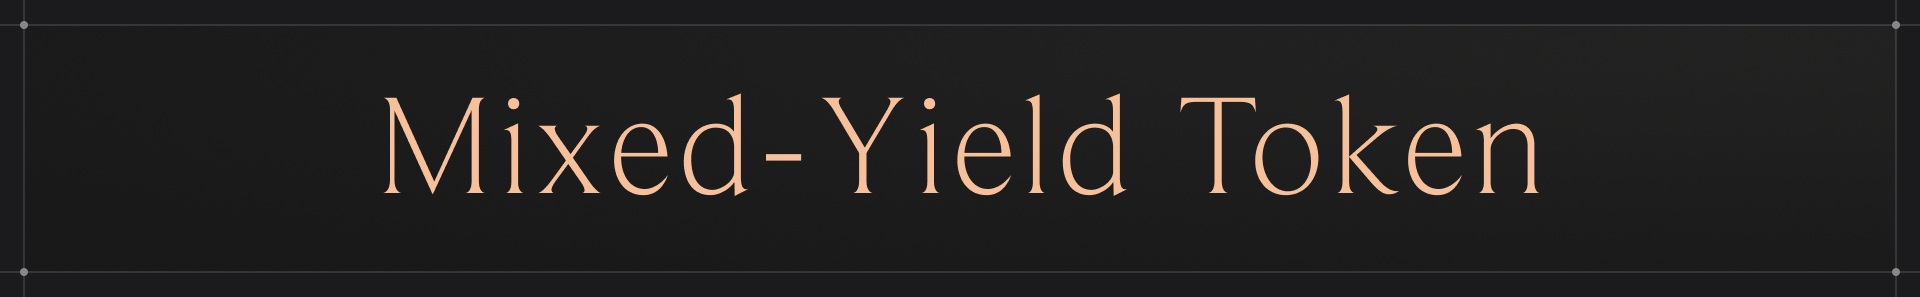
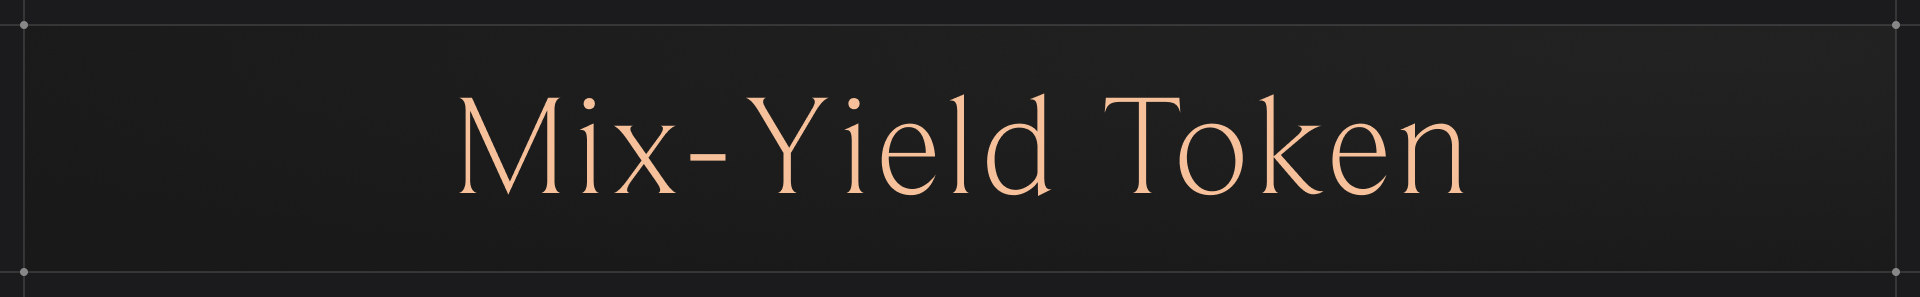
Changed incorrect instances of mixed to accuractly reflect MYT naming conventions

Changed region(s): [[0.1875, 0.303, 0.8125, 0.6667]]

diff --git a/docs/dev/myt/myt-contract.md b/docs/dev/myt/myt-contract.md
@@ -11,7 +11,7 @@ import mytstrategy from '@site/static/img/mytstrategy-01.png';
 The Alchemix V3 protocol introduces a modular system for yield generation centered around Morpho V2 Vaults. The core of this system
 is a set of strategies that function as adapters for the Morpho Vault, managing user-deposited assets such as WETH and USDC. These
 strategies are designed to allocate capital across a diverse range of third-party, yield-bearing DeFi protocols. Users deposit their assets
-into the Morpho Vault and receive Mixed-Yield Tokens (MYT), which represent a share of the vault’s underlying assets. The value of an MYT
+into the Morpho Vault and receive Mix-Yield Tokens (MYT), which represent a share of the vault’s underlying assets. The value of an MYT
 share is designed to increase over time as the strategies accrue yield. The allocation of capital is managed by an Alchemix admin or
 operator via the AlchemistAllocator contract to optimize returns and manage risk.
 
@@ -402,18 +402,18 @@ For more specific operations tailored to individual strategies, see the contract
 <details id="VaultActions_allocate">
   <summary>allocate(bytes memory data, uint256 assets, bytes4 selector, address sender)</summary>
 
-  - **Description** - Allocates `assets` from the vault into the underlying strategy, computes the delta between the new allocation and previous allocation, and reports the change.<br/><br/>
-  	Assets are allocated using an internal call to `_allocate()` which is overrideen and defined in derived strategy contract implementations. If `killSwitch` is enabled, the simply exits with a change of 0.
-    - `@param data` - a bytes-encoded representation of the old (current) allocation. Later decoded into an uint256.
-    - `@param assets` - the amount of tokens the vault is requesting to allocated to the strategy.
-    - `@param selector` - Unused, but in place to match the Morpho V2 spec. May be used in the future.
-    - `@param sender` - Unused, but in place to match the Morpho V2 spec. May be used in the future.
-  -	**Visibility Specifier** - external
-  -	**State Mutability Specifier** - nonpayable
-  -	**Returns** - (bytes32[] memory strategyIds, int256 change) - A tuple where the first value is an array of size 1 containing the [`adapterId`](/dev/myt/myt-contract#Variables_adapterId), and the second value is a signed 256 bit integer containing the difference between the new allocation and the old allocation
-  -	**Emits**
-    - [`Allocate(uint256 amountAllocated, address this)`](/dev/myt/myt-contract#Events_Allocate)
-  - **Reverts** - none
+- **Description** - Allocates `assets` from the vault into the underlying strategy, computes the delta between the new allocation and previous allocation, and reports the change.<br/><br/>
+  Assets are allocated using an internal call to `_allocate()` which is overrideen and defined in derived strategy contract implementations. If `killSwitch` is enabled, the simply exits with a change of 0.
+  - `@param data` - a bytes-encoded representation of the old (current) allocation. Later decoded into an uint256.
+  - `@param assets` - the amount of tokens the vault is requesting to allocated to the strategy.
+  - `@param selector` - Unused, but in place to match the Morpho V2 spec. May be used in the future.
+  - `@param sender` - Unused, but in place to match the Morpho V2 spec. May be used in the future.
+- **Visibility Specifier** - external
+- **State Mutability Specifier** - nonpayable
+- **Returns** - (bytes32[] memory strategyIds, int256 change) - A tuple where the first value is an array of size 1 containing the [`adapterId`](/dev/myt/myt-contract#Variables_adapterId), and the second value is a signed 256 bit integer containing the difference between the new allocation and the old allocation
+- **Emits**
+  - [`Allocate(uint256 amountAllocated, address this)`](/dev/myt/myt-contract#Events_Allocate)
+- **Reverts** - none
 </details>
 <details id="VaultActions_deallocate">
   <summary>deallocate(bytes memory data, uint256 assets, bytes4 selector, address sender)</summary>
@@ -542,26 +542,28 @@ For more specific operations tailored to individual strategies, see the contract
 - **Returns** - `uint256 estimatedYield` - last snapshotted yield value (1e18 = 100%)
 - **Emits** - none
 - **Reverts** - none
+
 </details>
 <details id="ReadingState_getCap">
   <summary>getCap()</summary>
 
-  - **Description** - Returns the `params.cap` variable, which describes the max allocation to a specific strategy in a specific risk class
-  - **Visibility Specifier** - external  
-  - **State Mutability Specifier** - view  
-  - **Returns** - `uint256 cap`
-  - **Emits** - none  
-  - **Reverts** - none  
+- **Description** - Returns the `params.cap` variable, which describes the max allocation to a specific strategy in a specific risk class
+- **Visibility Specifier** - external
+- **State Mutability Specifier** - view
+- **Returns** - `uint256 cap`
+- **Emits** - none
+- **Reverts** - none
 </details>
+
 <details id="ReadingState_getGlobalCap">
   <summary>getGlobalCap()</summary>
 
-  - **Description** - Returns the `params.globalCap` variable. 
-  - **Visibility Specifier** - external  
-  - **State Mutability Specifier** - view  
-  - **Returns** - `uint256 globalCap` 
-  - **Emits** - none  
-  - **Reverts** - none  
+- **Description** - Returns the `params.globalCap` variable.
+- **Visibility Specifier** - external
+- **State Mutability Specifier** - view
+- **Returns** - `uint256 globalCap`
+- **Emits** - none
+- **Reverts** - none
 </details>
 <details id="ReadingState_ids">
   <summary>ids()</summary>
@@ -582,7 +584,9 @@ For more specific operations tailored to individual strategies, see the contract
 - **Returns** - `bytes memory abiEncodedValue`
 - **Emits** - none
 - **Reverts** - none
+
 </details>
+
 <details id="ReadingState_realAssets">
   <summary>realAssets()</summary>
 

diff --git a/docs/projects/index.md b/docs/projects/index.md
@@ -8,7 +8,7 @@ import integrations from '@site/static/img/integrations-01.png';
 
 <img src={integrations} alt="Why Integrate Alchemix?" fetchpriority="high" class="banner-spacing" />
 
-Alchemix V3 turns a single deposit of ETH or USDC into two complementary positions. First, the funds are wrapped into a Mixed-Yield Token (MYT) that earns yield across a diversified set of strategies curated by the Alchemix DAO. That same collateral unlocks a credit line, allowing users to mint synthetic alAssets, alETH or alUSD, worth up to ninety percent of the deposit.
+Alchemix V3 turns a single deposit of ETH or USDC into two complementary positions. First, the funds are wrapped into a Mix-Yield Token (MYT) that earns yield across a diversified set of strategies curated by the Alchemix DAO. That same collateral unlocks a credit line, allowing users to mint synthetic alAssets, alETH or alUSD, worth up to ninety percent of the deposit.
 
 The redesigned Transmuted accepts these alAssets and, on a fixed schedule, returns MYT one-for-one. This mechanism keeps alAssets close to price parity with their underlying assets and created predictable, bond-like yield opportunities for anyone who accumulated alAssets below face value.
 
@@ -25,7 +25,7 @@ The redesigned Transmuted accepts these alAssets and, on a fixed schedule, retur
 | Feature                    | Purpose                                                                                             |
 | -------------------------- | --------------------------------------------------------------------------------------------------- |
 | Alchemist Vault (ERC-4626) | Aggregated yield for each base asset on every supported chain                                       |
-| Mixed-Yield Token (MYT)    | Tokenised basket of yield strategies, which can be unwrapped for the underlying assets at any time  |
+| Mix-Yield Token (MYT)      | Tokenised basket of yield strategies, which can be unwrapped for the underlying assets at any time  |
 | Transmuter                 | Fixed-duration redemptions that stabilise alAsset prices and create predictable return opportunties |
 | Self-repaying CDP          | Debt is automatically retired by vault yield and scheduled redemptions                              |
 

diff --git a/docs/user/index.md b/docs/user/index.md
@@ -24,7 +24,7 @@ Alchemix is your unified platform for saving, earning, borrowing, and fixed-term
 
 **How it works**
 
-Deposit ETH or USDC into a vault to receive Mixed-Yield Tokens (MYT). Each MYT represents a share of a portfolio of yield strategies chosen by Alchemix and is rebalanced over time. Yield accrues continuously and is reflected in the redemption value of MYT.
+Deposit ETH or USDC into a vault to receive Mix-Yield Tokens (MYT). Each MYT represents a share of a portfolio of yield strategies chosen by Alchemix and is rebalanced over time. Yield accrues continuously and is reflected in the redemption value of MYT.
 
 ### Key Points
 
@@ -55,7 +55,7 @@ Typical uses include financing a purchase, leveraging/looping yield, or bridging
 
 ## 3. Lock In Fixed Returns with the Transmuter
 
-The Transmuter lets users deposit alAssets and, after a fixed term, redeem an equivalent amount of the underlying asset—via Mixed-Yield Tokens (MYT), which act as an intermediary claim.
+The Transmuter lets users deposit alAssets and, after a fixed term, redeem an equivalent amount of the underlying asset—via Mix-Yield Tokens (MYT), which act as an intermediary claim.
 
 - **Predictable returns** – redemption price and date are known upfront.
 - **Peg stability** – arbitrage incentives help to keep alAssets near parity.

diff --git a/docs/user/tutorials/repay-loan.md b/docs/user/tutorials/repay-loan.md
@@ -29,7 +29,7 @@ The Repay tab accepts three asset types: alAssets, MYT, or the underlying token.
 | Option                   | When to use                          | Notes                                                                   |
 | ------------------------ | ------------------------------------ | ----------------------------------------------------------------------- |
 | alAsset (alUSD or alETH) | Standard debt                        | Repays non-earmarked debt only.                                         |
-| MYT (Mixed-Yield Token)  | Earmarked debt and/oor standard debt | Required for any debt already earmarked for a redemption cycle.         |
+| MYT (Mix-Yield Token)    | Earmarked debt and/oor standard debt | Required for any debt already earmarked for a redemption cycle.         |
 | Underlying (ETH or USDC) | Convenience                          | Interface swaps to MYT behind the scenes before applying the repayment. |
 
 The asset-selector dropdown (left side of the entry box) will only list what is valid for the current vault state.

diff --git a/docs/user/concepts/myt-and-yield.md b/docs/user/concepts/myt-and-yield.md
@@ -1,16 +1,16 @@
 ---
 sidebar_position: 1
 hide_title: true
-sidebar_label: Mixed-Yield Token
+sidebar_label: Mix-Yield Token
 ---
 
 import MYT from '@site/static/img/MYT-banner.png';
 
-<img src={MYT} alt="Mixed-Yield Token" class="banner-spacing" />
+<img src={MYT} alt="Mix-Yield Token" class="banner-spacing" />
 
-Mixed-Yield Token (MYT) gives you passive exposure to a curated set of yield strategies without needing to manage positions yourself. Each token represents a share of assets that Alchemix allocates across multiple protocols.
+Mix-Yield Token (MYT) gives you passive exposure to a curated set of yield strategies without needing to manage positions yourself. Each token represents a share of assets that Alchemix allocates across multiple protocols.
 
-[Explore technical documentation for MYT →](../../dev/myt/mixed-yield-token)
+[Explore technical documentation for MYT →](../../dev/myt/mix-yield-token)
 
 ## What is MYT?
 

diff --git a/docs/user/concepts/liquidations.md b/docs/user/concepts/liquidations.md
@@ -10,7 +10,7 @@ import liquidations from '@site/static/img/liquidations-01.png';
 
 <img src={liquidations} alt="Liquidations" class="banner-spacing" />
 
-Liquidations in Alchemix v3 are a system-wide safety valve, not a per-account punishment. Because loans and collateral are like-kind, with ETH backing alETH and USDC backing alUSD, market price swings do **not** force positions to close. The back-stop only activates if the Mixed-Yield Token itself loses backing.
+Liquidations in Alchemix v3 are a system-wide safety valve, not a per-account punishment. Because loans and collateral are like-kind, with ETH backing alETH and USDC backing alUSD, market price swings do **not** force positions to close. The back-stop only activates if the Mix-Yield Token itself loses backing.
 
 ## When liquidation does not occur
 

diff --git a/docs/projects/why-integrate/use-cases.md b/docs/projects/why-integrate/use-cases.md
@@ -6,7 +6,7 @@ sidebar_position: 1
 
 ## DAOs & Treasuries
 
-Treasury managers can park idle ETH or USDC in the Mixed-Yield Token (MYT) to earn a diversified return while assets remain fully on-chain. When liquidity is required, the same collateral mints alAssets that can be swapped for operating capital, vault yield then repays the debt. Any surplus alAssets can enter the Transmuter to secure a predictable, fixed-rate gain.
+Treasury managers can park idle ETH or USDC in the Mix-Yield Token (MYT) to earn a diversified return while assets remain fully on-chain. When liquidity is required, the same collateral mints alAssets that can be swapped for operating capital, vault yield then repays the debt. Any surplus alAssets can enter the Transmuter to secure a predictable, fixed-rate gain.
 
 Example flow:
 

diff --git a/docs/user/concepts/self-repaying-loans.md b/docs/user/concepts/self-repaying-loans.md
@@ -14,7 +14,7 @@ A self-repaying loan lets you unlock liquidity without immediately selling your 
 
 Deposit ETH or USDC and the vault issues a like-kind synthetic asset, alETH or alUSD, that mirrors the price of what you deposited. You may mint alAssets worth up to **90%** of your collateral’s face value and deploy them however you like. Meanwhile, two built-in cash flows reduce the loan balance:
 
-- **Vault yield** – Your collateral is wrapped in the Mixed-Yield Token, which earns yield continuously.
+- **Vault yield** – Your collateral is wrapped in the Mix-Yield Token, which earns yield continuously.
 
 - **Scheduled redemptions** – As Transmuter redemption positions mature, users will redeem their positions, which then triggers debt repayments using user collateral.
 

diff --git a/docs/user/concepts/fees.md b/docs/user/concepts/fees.md
@@ -10,7 +10,7 @@ import fees from '@site/static/img/fees-01.png';
 
 <img src={fees} alt="Fees" class="banner-spacing" />
 
-Alchemix v3 keeps the cost structure transparent and predictable. Three parameters, each set by on-chain governance, clever every action a user can take. A redemption fee for borrowers, an optional redemption fee for Transmuter depositors, and a performance fee on Mixed-Yield Token yield. No other fees apply.
+Alchemix v3 keeps the cost structure transparent and predictable. Three parameters, each set by on-chain governance, clever every action a user can take. A redemption fee for borrowers, an optional redemption fee for Transmuter depositors, and a performance fee on Mix-Yield Token yield. No other fees apply.
 
 ## Borrower redemption fee
 

diff --git a/docs/user/concepts/borrowing-in-alchemix.md b/docs/user/concepts/borrowing-in-alchemix.md
@@ -11,7 +11,7 @@ import borrowingScreen01 from '@site/static/img/borrowing-in-alchemix-01.png';
 
 <img src={borrowing} alt="Borrowing" class="banner-spacing" />
 
-After converting ETH or USDC into the Mixed-Yield Token, the next step is borrowing. The vault keeps your collateral and lets you mint synthetic assets—alETH or alUSD respectively—worth up to ninety percent of the collateral’s face value.
+After converting ETH or USDC into the Mix-Yield Token, the next step is borrowing. The vault keeps your collateral and lets you mint synthetic assets—alETH or alUSD respectively—worth up to ninety percent of the collateral’s face value.
 
 ## How borrowing works
 

diff --git a/docs/user/quick-start.md b/docs/user/quick-start.md
@@ -23,7 +23,7 @@ Connect a wallet on the target chain and keep a small balance of the native gas 
 
 ![](/img/quick-start-01.png)
 
-Open Vaults, select Mixed-ETH or Mixed-USDC on your chain, and deposit. The vault will mint MYT at a rate equivalent to your underlying assets. From here on out, each MYT represents a growing claim on the underlying as strategies earn.
+Open Vaults, select Mix-ETH or Mix-USDC on your chain, and deposit. The vault will mint MYT at a rate equivalent to your underlying assets. From here on out, each MYT represents a growing claim on the underlying as strategies earn.
 
 ### Step 2 – Borrow at 20% LTV
 

diff --git a/docs/user/tutorials/use-passive-myt.md b/docs/user/tutorials/use-passive-myt.md
@@ -8,7 +8,7 @@ import mytYield from '@site/static/img/myt-yield-01.png';
 
 <img src={mytYield} alt="Passive MYT Yield" class="banner-spacing" />
 
-The Mixed-Yield Token turns a single deposit of ETH or UDSC into an auto-compounding position. Once minted, every MYT represents a growing claim on the underlying asset. No extra clicks are required to harvest or reinvest.
+The Mix-Yield Token turns a single deposit of ETH or UDSC into an auto-compounding position. Once minted, every MYT represents a growing claim on the underlying asset. No extra clicks are required to harvest or reinvest.
 
 ## Prerequisites
 
